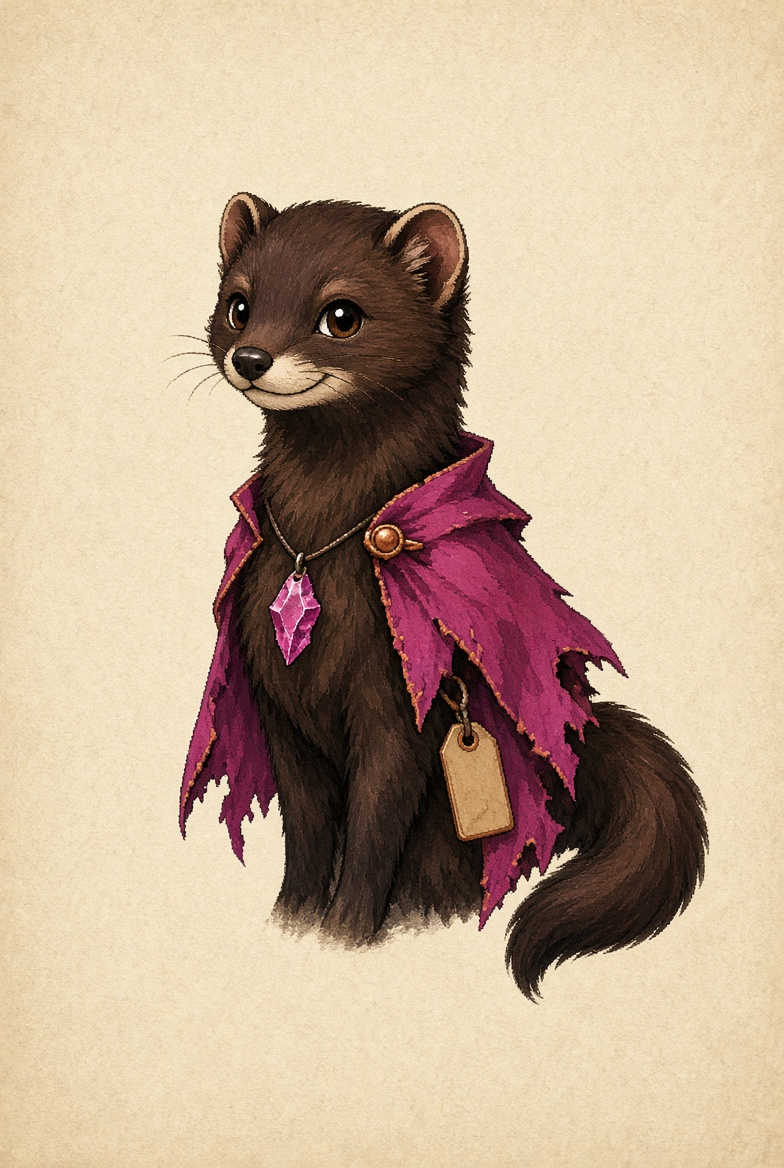
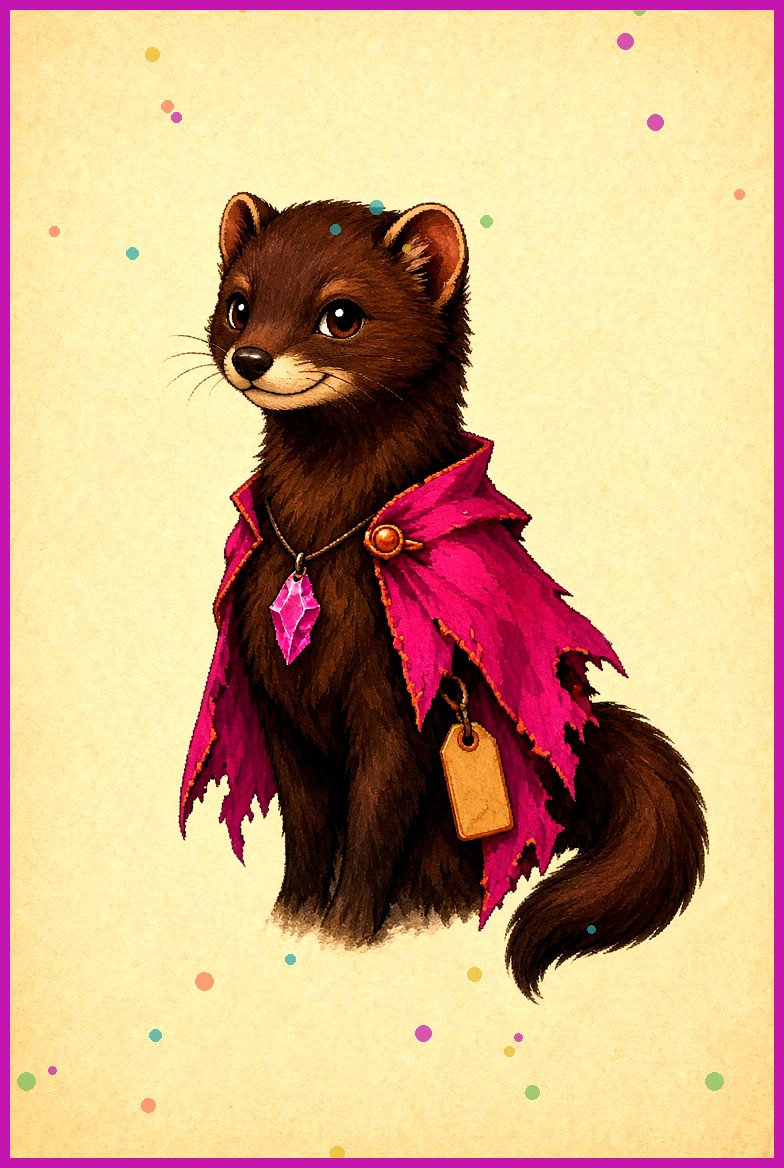
Punch up trail catch colors

diff --git a/webapp/adventure/index.html b/webapp/adventure/index.html
@@ -172,6 +172,10 @@
       border-radius: 50%;
       background: transparent;
     }
+    .type-pin.catch {
+      object-fit: cover;
+      filter: saturate(1.35) contrast(1.08) drop-shadow(0 2px 0 #c513af);
+    }
     .std-pin {
       width: 28px; height: 28px; margin-left: -14px; margin-top: -14px;
       object-fit: contain;
@@ -811,7 +815,7 @@
           var ring = sniffed ? "#c513af" : "#C47A4A";
           return L.divIcon({
             className: "",
-            html: '<img class="type-pin" style="border:2px solid ' + ring + ';background:#f3eee4" src="' + art + '" alt="" />',
+            html: '<img class="type-pin catch" style="border:3px solid ' + ring + ';background:#fff4d8" src="' + art + '" alt="" />',
             iconSize: [36, 36],
             iconAnchor: [18, 18]
           });
